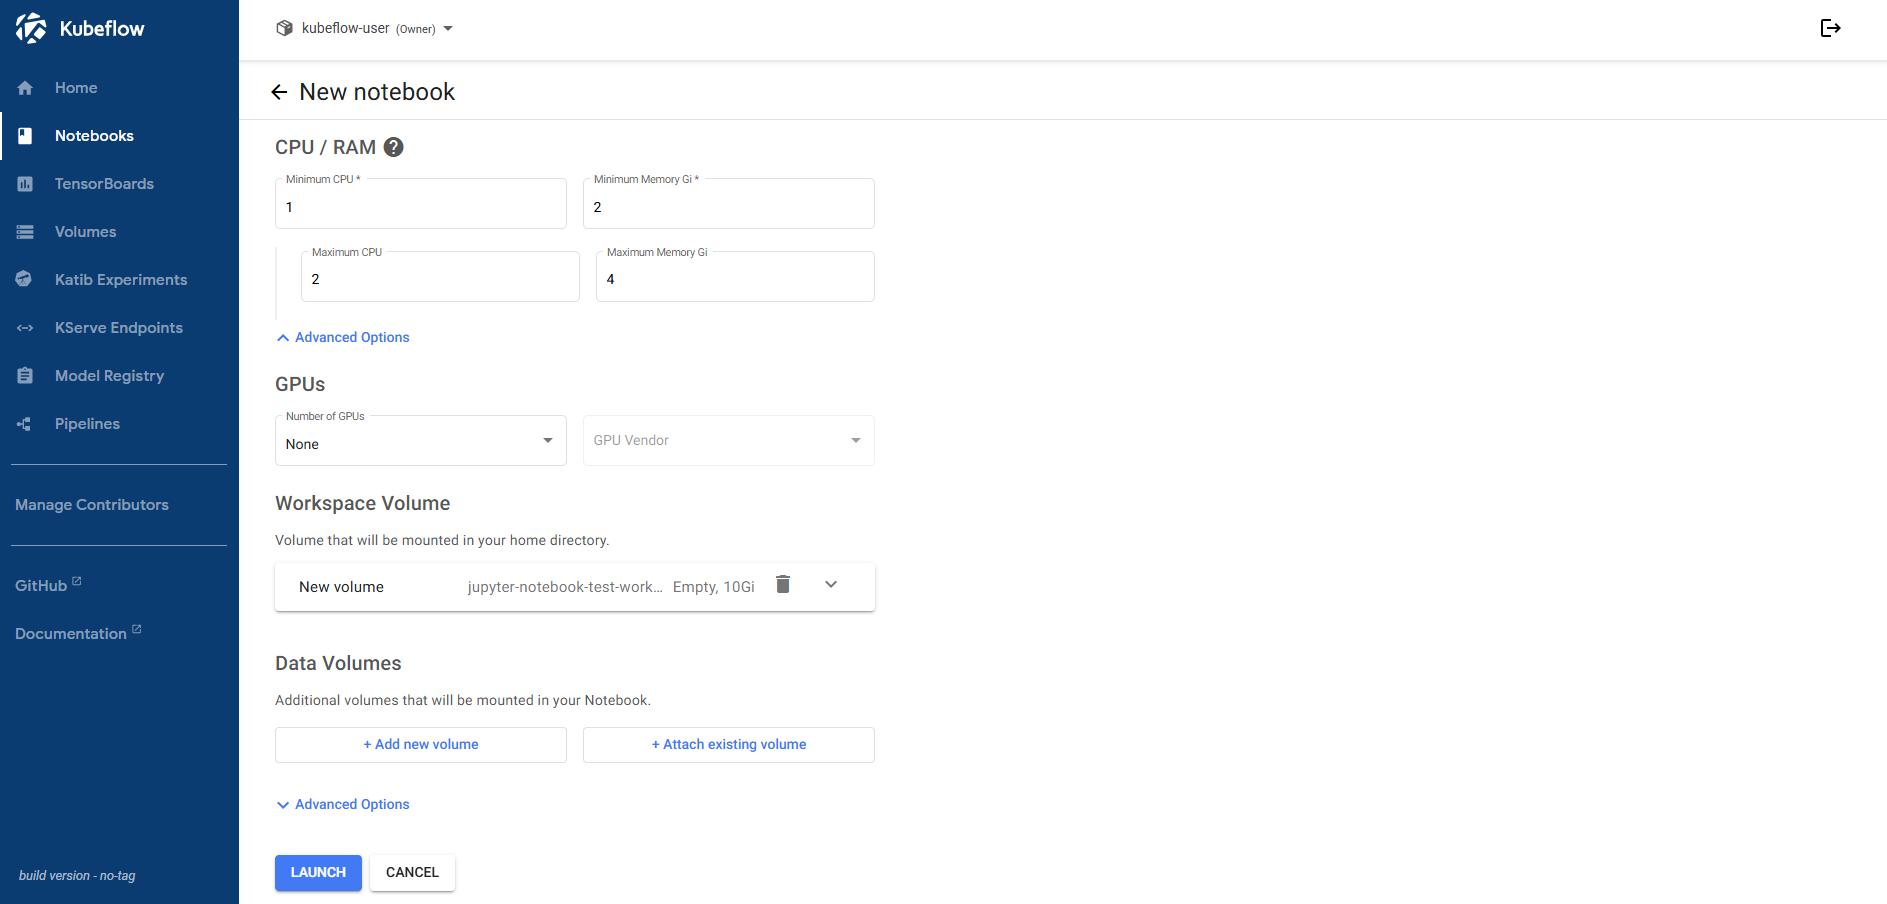
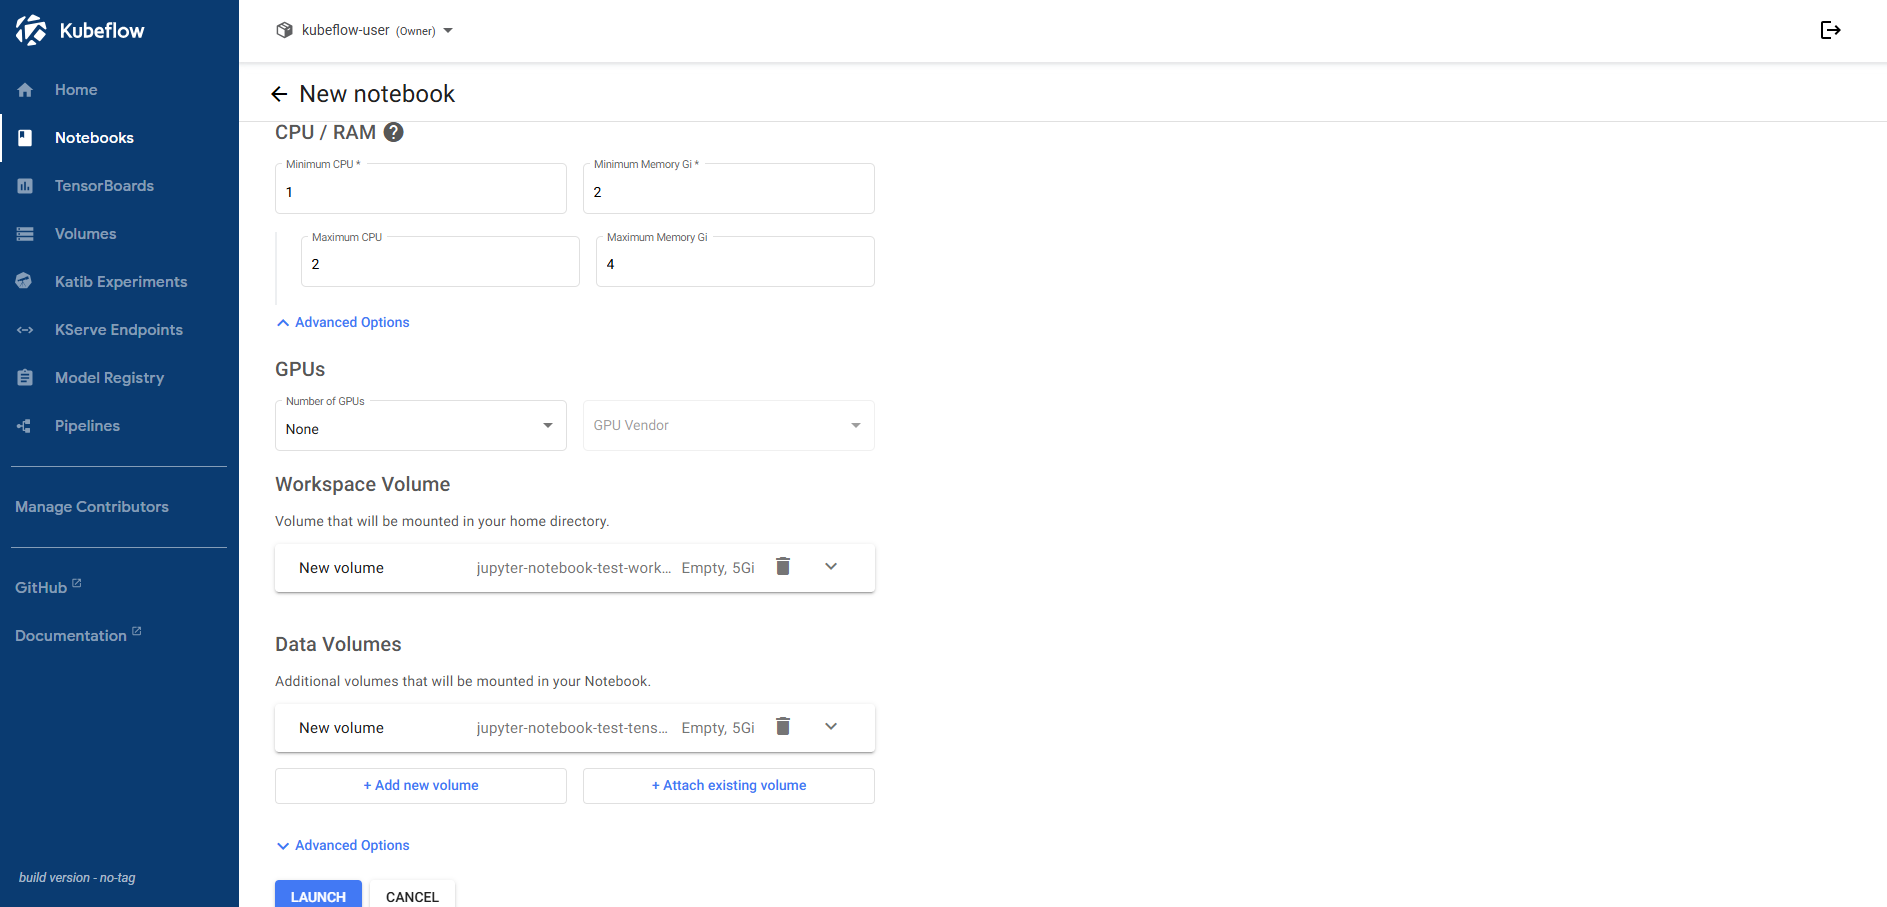
kubeflow tensorboard 설치 방법 작성

diff --git a/_posts/Kubernetes/2026-08-31-[Kubernetes] - Kubeflow Notebook 생성하기.md b/_posts/Kubernetes/2026-08-31-[Kubernetes] - Kubeflow Notebook 생성하기.md
@@ -62,7 +62,7 @@ $ kubectl apply -f user-profile.yaml
 
 ---
 
-### 2.4 Notebook 생성 및 접속확인 :
+### 2.4 Notebook 생성하기 :
 
 - 위 설정이 끝나면 ***LAUNCH*** 버튼을 클릭하여 생성합니다.
 
@@ -70,5 +70,51 @@ $ kubectl apply -f user-profile.yaml
 
 > Notebooks 목록 화면에서 상태가 Running으로 바뀌면 Connect 버튼으로 노트북에 접속할 수 있습니다.
 {: .prompt-info}
+
+---
+
+### 2.5 Notebook 접속확인 :
+
+- 생성된 노트북 목록에서 ```CONNECT``` 버튼을 클릭해 접속하면 됩니다.
+
+![kubeflow Notebook 접속확인](/assets/img/post/kubernetes/kubeflow%20Notebook%20접속확인.png)
+
+---
+
+## 3. TensorBoards 생성하기 :
+
+- 왼쪽 메뉴의 ```TensorBoards```를 클릭하고 ```New TensorBoard```를 클릭합니다.
+
+![TensorBoards 생성 버튼 클릭](/assets/img/post/kubernetes/TensorBoards%20생성%20버튼%20클릭.png)
+
+---
+
+- TensorBoard를 생성하기 위해 채워야 할 항목들을 입력합니다.
+
+![TensorBoards 생성 화면](/assets/img/post/kubernetes/TensorBoards%20생성%20화면.png)
+
+> 입력 항목에 대한 설명은 아래와 같습니다.
+{: .prompt-tip}
+
+| 항목 | 설명 |
+|---|---|
+| Name | TensorBoard 리소스 이름 |
+| Namespace | 사용자 네임스페이스 (자동 입력) |
+| Object Store / PVC | 로그 데이터 소스 유형 |
+| PVC Name | 로그가 저장된 볼륨 |
+| Mount Path | 컨테이너 내 마운트 경로 |
+| Configurations | 선택적 Pod 설정 프리셋 |
+
+---
+
+- 모두 입력 후 생성하여 확인합니다.
+
+![Tensorboard 생성 확인](/assets/img/post/kubernetes/Tensorboard%20생성%20확인.png)
+
+---
+
+- ```CONNECT``` 버튼을 클릭하여 접속합니다.
+
+![Tensorboard 접속 확인](/assets/img/post/kubernetes/Tensorboard%20접속%20확인.png)
 
 ---
